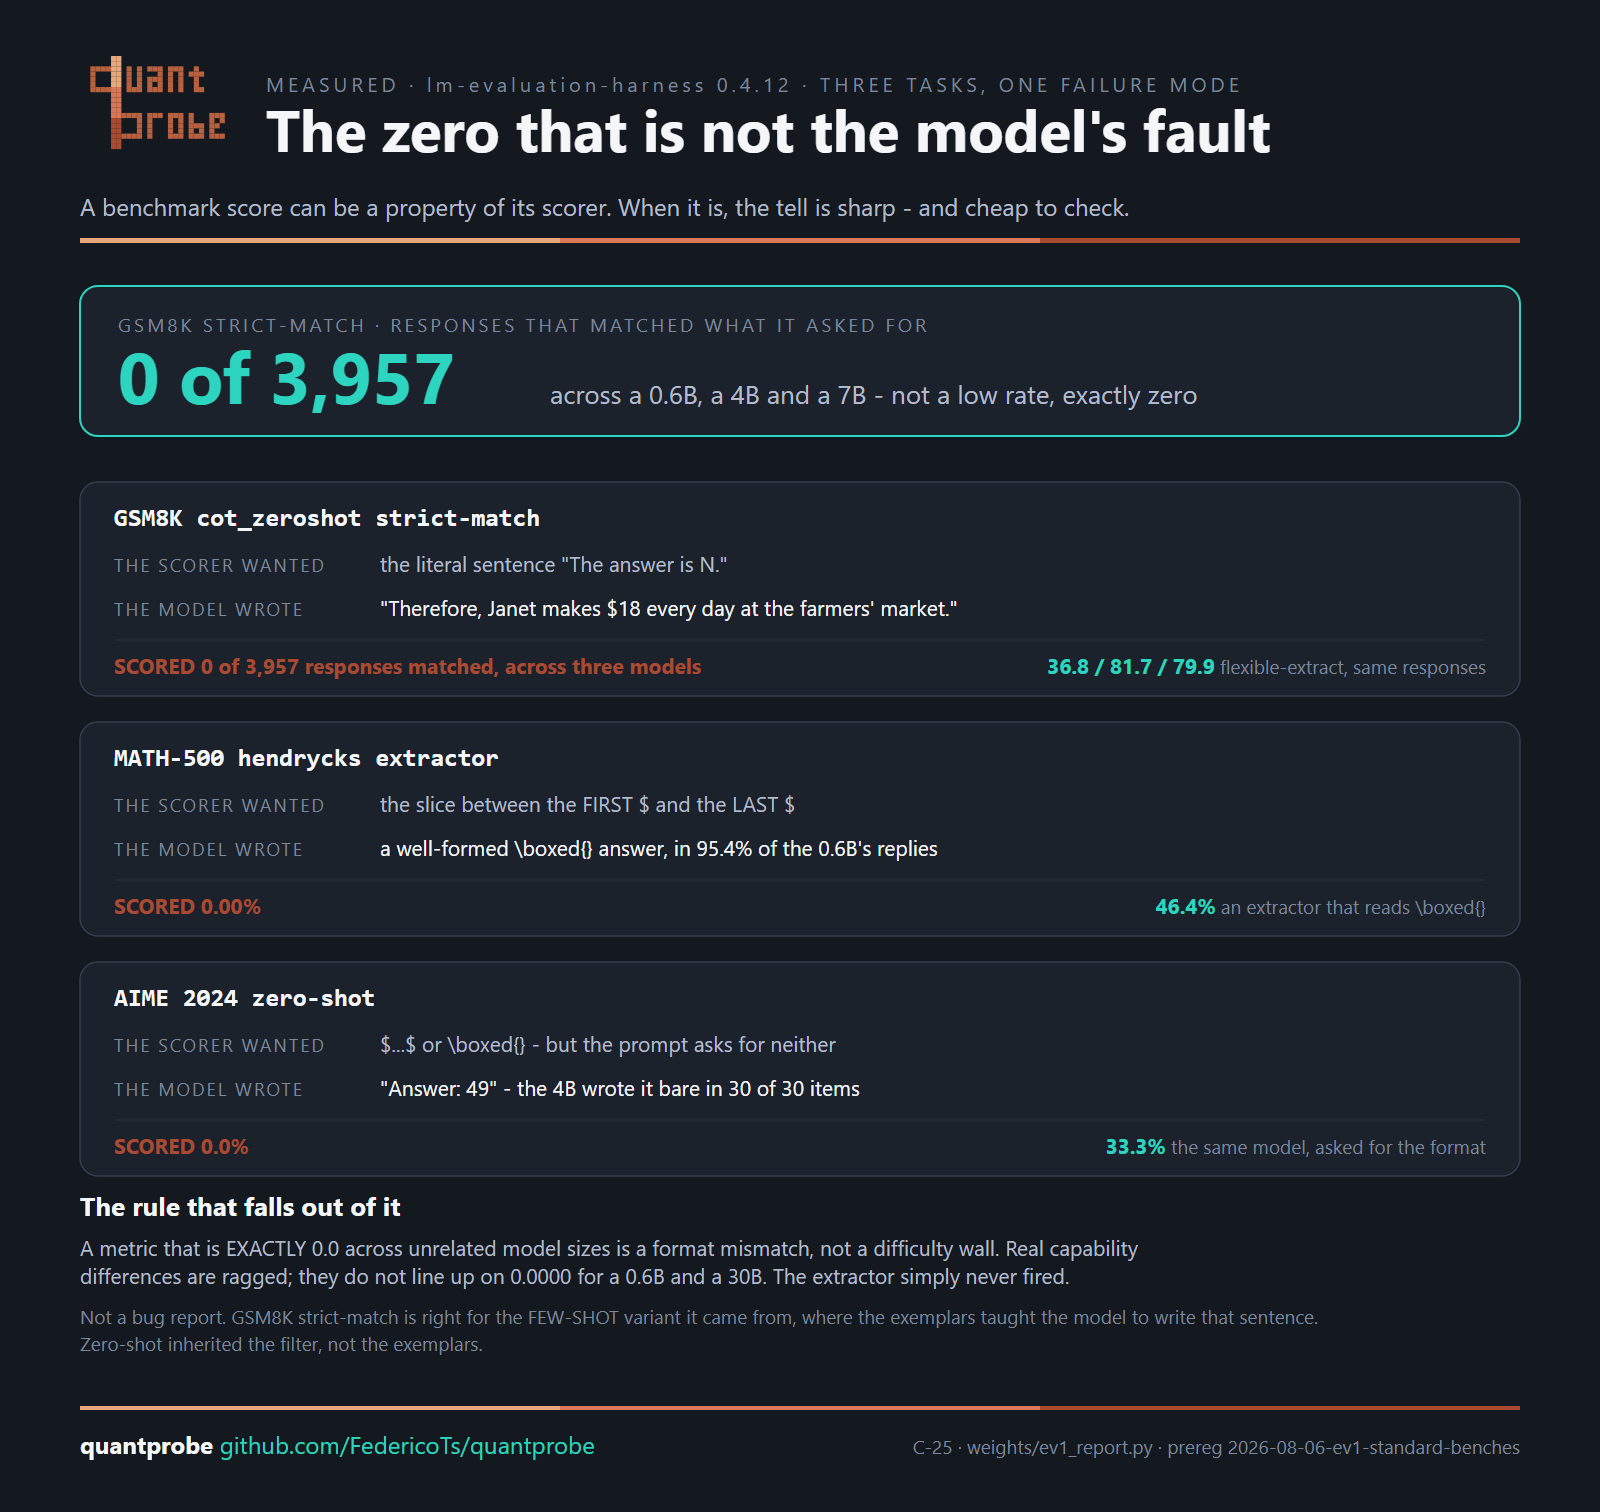
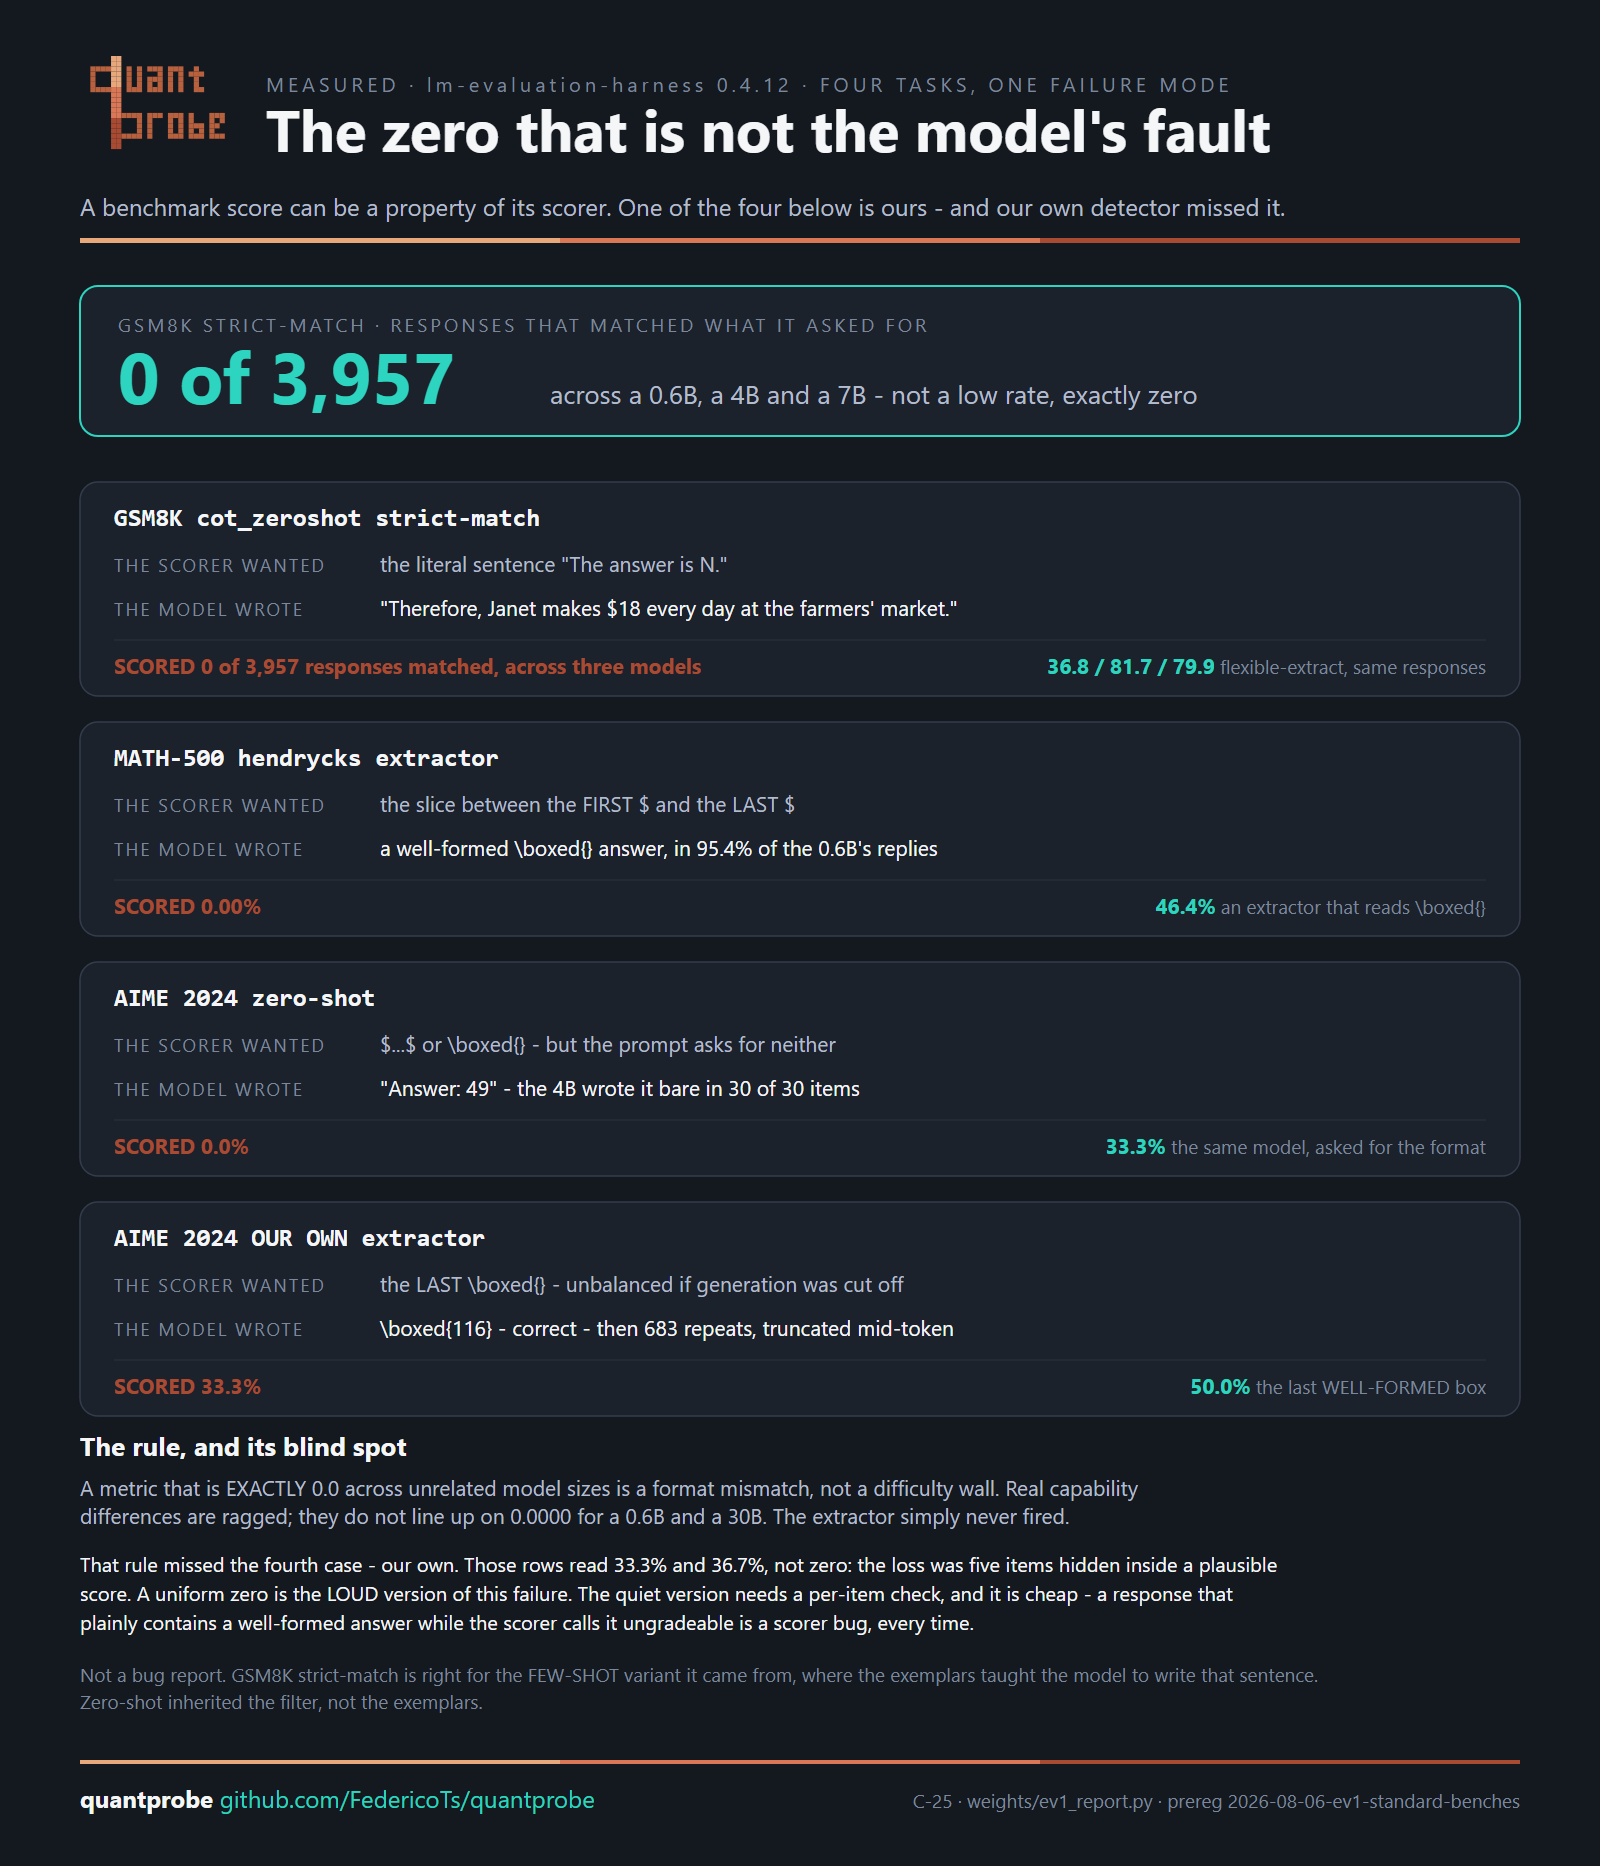
The ladder was not a size ladder, and the chart said it was
Federico pushed back that it sounds impossible for a 30B to sit below a 4B. He was right,
and the fault was the chart's framing rather than the scoring.

Two things were wrong.

FIRST, there is no gap to explain. MATH-500 reads 77.6% for the 4B and 77.2% for the 30B
with a stderr of +-1.87 and +-1.88 points. A 0.4-point difference on that spread is a dead
heat. The old panel printed "4.0x the bytes for -0.4 points", which reads as the big model
LOSING; it is not losing, and the chart now says dead heat and prints the stderr beside it.

SECOND, and worse, the four rows were labelled 0.6B / 4B / 7B / 30B under the title "Where
size stops buying accuracy" with a subtitle claiming the only thing that changes is the
model. They are not a size series:

  0.6B   Qwen3         Q8_0      8-bit
  4B     Qwen3.5       Q4_K_M    newest generation here
  7B     Qwen2.5       Q4_K_M    oldest generation here
  30B    Qwen3-Coder   Q2_K_L    a CODE specialist, sub-4-bit

Three model generations, three quantization tiers, and one domain specialist. The 30B is
handicapped twice on a maths benchmark - wrong specialism, and a sub-4-bit tier that our
OWN C-05 and L-15 place in a measurably degraded regime. Presenting that as evidence about
size is precisely the overclaim this project exists to refuse, and it was ours.

Retitled to "What 12 GB actually buys you". Every bar now carries its family and quant tier
[…]

diff --git a/weights/make_capability_ladder.py b/weights/make_capability_ladder.py
@@ -1,8 +1,19 @@
-"""The capability ladder - where model size stops buying accuracy on one 12 GB card.
+"""What 12 GB actually buys you - four runnable models, five standard benchmarks, one card.
 
-Four models, one machine, five standard benchmarks, full sets, temp 0 (EV-1, prereg
-2026-08-06). The headline is a tie nobody expects: a 2.83 GB 4B matches an 11.33 GB 30B on
-MATH-500, and beats a 4.68 GB 7B on every benchmark measured.
+EV-1, prereg 2026-08-06: one machine, full sets, temp 0.
+
+NOT A SCALING STUDY, and the first version of this chart wrongly implied it was. It was titled
+"Where size stops buying accuracy" over rows labelled 0.6B/4B/7B/30B, which reads as a
+controlled test of size. These four differ in generation (Qwen2.5 / Qwen3 / Qwen3.5), in
+quantization tier (Q8_0 / Q4_K_M / Q2_K_L) and in specialisation - the 30B is a CODE model
+being asked to do competition maths, at a sub-4-bit tier our own C-05 and L-15 place in a
+measurably degraded regime. It is handicapped twice over, and reporting "the 4B ties the 30B"
+as a claim about SIZE would be an overclaim of exactly the kind this project refuses.
+
+What the rows do support is narrower and more useful: on one 12 GB card, the newest small
+generalist at a sane quant matches the largest specialist you can fit, and beats a
+previous-generation 7B on every benchmark measured. That is a placement result - which is the
+question the tool actually answers.
 
 Cite-or-refuse. Every number renders from weights/data/ev1/**/results_*.json via ev1_report,
 which REFUSES to hand over a metric that is exactly 0.0 across three or more models unless the
@@ -21,7 +32,7 @@ import ev1_report as R                                       # noqa: E402
 from gridbench import MODELS                                 # noqa: E402
 
 W = 1600
-X0, XW = 486, 830                    # bar origin, full-scale width (100%)
+X0, XW = 620, 700                    # bar origin, full-scale width (100%)
 ROWH, GROUP_GAP = 38, 46
 
 # Display order and the plain-English name. The suite is what people actually quote.
@@ -35,6 +46,28 @@ BENCHES = [
 ]
 ORDER = ["0.6B", "4B", "7B", "30B"]
 HERO = "4B"
+
+# THE THING THE FIRST VERSION OF THIS CHART GOT WRONG. It was titled "Where size stops buying
+# accuracy" over four rows labelled 0.6B/4B/7B/30B, which reads as a controlled scaling study.
+# It is not one. These are four files you would actually run on a 12 GB card, and they differ
+# in generation, quantization tier and specialisation as much as in size:
+#
+#   0.6B  Qwen3         Q8_0      8-bit, a generalist
+#   4B    Qwen3.5       Q4_K_M    NEWEST generation here
+#   7B    Qwen2.5       Q4_K_M    OLDEST generation here
+#   30B   Qwen3-Coder   Q2_K_L    a CODE specialist, and sub-4-bit
+#
+# So the 30B is doubly handicapped on a maths benchmark - wrong specialism, and a quantization
+# tier our own C-05/L-15 put in a measurably degraded regime. Reporting "the 4B ties the 30B"
+# as a statement about SIZE would be an overclaim of exactly the kind this project exists to
+# refuse. What the rows honestly support is narrower and more useful: on one 12 GB card, the
+# newest small generalist at a sane quant matches what you can fit of a much larger specialist.
+VARIANT = {
+    "0.6B": ("Qwen3", "Q8_0", "generalist"),
+    "4B":   ("Qwen3.5", "Q4_K_M", "newest generation here"),
+    "7B":   ("Qwen2.5", "Q4_K_M", "oldest generation here"),
+    "30B":  ("Qwen3-Coder", "Q2_K_L", "code specialist, sub-4-bit"),
+}
 
 
 def sizes():
@@ -56,38 +89,44 @@ def main():
         scored[(model, task)] = value * 100
 
     live = [b for b in BENCHES if any((m, b[0]) in scored for m in ORDER)]
-    H = B.HEADER_H + sum(ROWH * len(ORDER) + GROUP_GAP + 34 for _ in live) + B.FOOTER_H + 400
+    H = B.HEADER_H + sum(ROWH * len(ORDER) + GROUP_GAP + 34 for _ in live) + B.FOOTER_H + 540
 
     m4 = scored.get((HERO, "math500_boxed"))
     m30 = scored.get(("30B", "math500_boxed"))
 
     s = [B.svg_open(W, H),
          B.header(W, "MEASURED · RTX 3060 12GB · lm-eval 0.4.12 · FULL SETS · TEMP 0",
-                  "Where size stops buying accuracy",
-                  "Four models on one card. Same harness, same prompts, same day - the only "
-                  "thing that changes is the model.")]
+                  "What 12 GB actually buys you",
+                  "Four models you could really run on one card. NOT a scaling study - they "
+                  "differ in generation and quantization as much as in size.")]
 
     y = B.HEADER_H + 24
 
-    # The hero comparison, stated once, in numbers big enough to read in a timeline.
+    # The hero, stated as what it is: a dead heat between two very different files. The earlier
+    # version framed this as size-versus-accuracy and printed a "-0.4 points" delta, which reads
+    # as the big model losing. It is not losing; 0.4pp against a +-1.9pp stderr is no difference
+    # at all, and the two files differ in generation, specialism and quant tier as well as size.
     if m4 is not None and m30 is not None:
-        s.append(B.panel(80, y, W - 160, 152, stroke=B.TEAL, sw=2))
-        s.append(f'<text x="118" y="{y+50}" fill="{B.MUT}" font-size="19" '
-                 f'letter-spacing="3">MATH-500, THE TIE</text>')
-        s.append(f'<text x="118" y="{y+118}" fill="{B.TEAL}" font-size="72" '
+        s.append(B.panel(80, y, W - 160, 164, stroke=B.TEAL, sw=2))
+        s.append(f'<text x="118" y="{y+46}" fill="{B.MUT}" font-size="19" '
+                 f'letter-spacing="3">MATH-500 - A DEAD HEAT, NOT A GAP</text>')
+        s.append(f'<text x="118" y="{y+112}" fill="{B.TEAL}" font-size="66" '
                  f'font-weight="bold">{m4:.1f}%</text>')
-        s.append(f'<text x="330" y="{y+118}" fill="{B.SUB}" font-size="26">'
-                 f'4B · {gb.get("4B", 0):.2f} GB</text>')
-        s.append(f'<text x="700" y="{y+118}" fill="{B.INK}" font-size="72" '
+        s.append(f'<text x="310" y="{y+112}" fill="{B.SUB}" font-size="23">'
+                 f'Qwen3.5-4B Q4_K_M</text>')
+        s.append(f'<text x="660" y="{y+112}" fill="{B.INK}" font-size="66" '
                  f'font-weight="bold">{m30:.1f}%</text>')
-        s.append(f'<text x="912" y="{y+118}" fill="{B.SUB}" font-size="26">'
-                 f'30B · {gb.get("30B", 0):.2f} GB</text>')
-        s.append(f'<text x="{W-118}" y="{y+82}" text-anchor="end" fill="{B.INK}" '
-                 f'font-size="30" font-weight="bold">'
-                 f'{gb.get("30B", 1) / gb.get("4B", 1):.1f}x the bytes</text>')
+        s.append(f'<text x="852" y="{y+112}" fill="{B.SUB}" font-size="23">'
+                 f'Qwen3-Coder-30B Q2_K_L</text>')
+        s.append(f'<text x="{W-118}" y="{y+86}" text-anchor="end" fill="{B.INK}" '
+                 f'font-size="27" font-weight="bold">'
+                 f'{abs(m30 - m4):.1f}pp apart</text>')
         s.append(f'<text x="{W-118}" y="{y+120}" text-anchor="end" fill="{B.MUT}" '
-                 f'font-size="24">for {m30 - m4:+.1f} points</text>')
-        y += 200
+                 f'font-size="22">on a stderr of +-1.9pp each</text>')
+        s.append(f'<text x="118" y="{y+146}" fill="{B.MUT}" font-size="18">'
+                 f'Different generation, different quantization tier, and one of them is a code '
+                 f'model doing maths. Read it as a placement result, not a scaling law.</text>')
+        y += 212
 
     for task, label, blurb in live:
         s.append(f'<text x="80" y="{y+20}" fill="{B.INK}" font-size="26" '
@@ -100,11 +139,15 @@ def main():
             v = scored.get((model, task))
             hero = model == HERO
             col = B.TEAL if hero else (B.VRAM if model == "30B" else B.SUB)
-            s.append(f'<text x="{X0-150}" y="{y+26}" fill="{B.INK if hero else B.SUB}" '
-                     f'font-size="21" font-weight="{"bold" if hero else "normal"}" '
-                     f'font-family="Consolas, Menlo, monospace">{model}</text>')
+            fam, quant, _ = VARIANT[model]
+            # The size label alone is what made the first version read as a scaling study. The
+            # family and quant tier travel with every single bar now, so no row can be quoted
+            # out of the chart as "the 30B" when it is a sub-4-bit code model.
+            s.append(f'<text x="{X0-330}" y="{y+26}" fill="{B.INK if hero else B.SUB}" '
+                     f'font-size="20" font-weight="{"bold" if hero else "normal"}" '
+                     f'font-family="Consolas, Menlo, monospace">{fam}-{model}</text>')
             s.append(f'<text x="{X0-22}" y="{y+26}" text-anchor="end" fill="{B.MUT}" '
-                     f'font-size="18">{gb.get(model, 0):.2f} GB</text>')
+                     f'font-size="17">{quant} · {gb.get(model, 0):.2f} GB</text>')
             s.append(f'<line x1="{X0}" y1="{y+19}" x2="{X0+XW}" y2="{y+19}" '
                      f'stroke="{B.GRID}" stroke-width="1"/>')
             if v is None:
@@ -136,8 +179,14 @@ def main():
          "on AIME."),
         ("NOT STRICTLY COMPARABLE ON AIME: the 0.6B, 4B and 7B rows ran a 7,168-token "
          "generation budget; the 30B row ran 8,192 after the slot plan changed to clear a "
-         "deadlock. The larger model had 14% more room to think, so the gap it shows is an "
+         "deadlock. The larger model had 14% more room to think, so any gap it shows is an "
          "upper bound on its advantage, not a measurement of it."),
+        ("AND NOT A SCALING STUDY: three model generations (Qwen2.5 / Qwen3 / Qwen3.5), three "
+         "quantization tiers (Q8_0 / Q4_K_M / Q2_K_L) and one code specialist sit on these "
+         "four rows. The 30B is handicapped twice on maths - wrong specialism, and a sub-4-bit "
+         "tier our own C-05 and L-15 put in a measurably degraded regime. These are the files "
+         "you can actually fit on 12 GB, which is the useful question; they are not a "
+         "controlled test of size."),
     ]
     for n in notes:
         s.append(B.paragraph(80, y + 6, n, 18, B.MUT, W - 160))

diff --git a/weights/make_scorer_artifact.py b/weights/make_scorer_artifact.py
@@ -47,6 +47,12 @@ CASES = [
      "0.0%",
      "33.3%",
      "the same model, asked for the format"),
+    ("AIME 2024  OUR OWN extractor",
+     "the LAST \\boxed{} - unbalanced if generation was cut off",
+     "\\boxed{116} - correct - then 683 repeats, truncated mid-token",
+     "33.3%",
+     "50.0%",
+     "the last WELL-FORMED box"),
 ]
 
 
@@ -57,16 +63,16 @@ def main():
     got = {(m, t): v for (m, t), d in rows.items() for k, v in d.items()
            if k == R.REPORTED.get(t, ("", ""))[0]}
     assert abs(got[("0.6B", "math500_boxed")] * 100 - 46.4) < 0.05, "MATH-500 0.6B moved"
-    assert abs(got[("4B", "aime24_boxed")] * 100 - 33.3) < 0.05, "AIME24 4B moved"
+    assert abs(got[("4B", "aime24_boxed")] * 100 - 50.0) < 0.05, "AIME24 4B moved"
 
     CH, GAP = 214, 26
-    H = B.HEADER_H + 196 + len(CASES) * (CH + GAP) + 186 + B.FOOTER_H
+    H = B.HEADER_H + 196 + len(CASES) * (CH + GAP) + 300 + B.FOOTER_H
 
     s = [B.svg_open(W, H),
-         B.header(W, "MEASURED · lm-evaluation-harness 0.4.12 · THREE TASKS, ONE FAILURE MODE",
+         B.header(W, "MEASURED · lm-evaluation-harness 0.4.12 · FOUR TASKS, ONE FAILURE MODE",
                   "The zero that is not the model's fault",
-                  "A benchmark score can be a property of its scorer. When it is, the tell is "
-                  "sharp - and cheap to check.")]
+                  "A benchmark score can be a property of its scorer. One of the four below is "
+                  "ours - and our own detector missed it.")]
 
     y = B.HEADER_H + 16
     s.append(B.panel(PAD, y, W - 2 * PAD, 150, stroke=B.TEAL, sw=2))
@@ -106,7 +112,7 @@ def main():
 
     y += 14
     s.append(f'<text x="{PAD}" y="{y}" fill="{B.INK}" font-size="26" font-weight="bold">'
-             f'The rule that falls out of it</text>')
+             f'The rule, and its blind spot</text>')
     for i, line in enumerate([
             "A metric that is EXACTLY 0.0 across unrelated model sizes is a format mismatch, "
             "not a difficulty wall. Real capability",
@@ -114,10 +120,21 @@ def main():
             "The extractor simply never fired."]):
         s.append(f'<text x="{PAD}" y="{y+40+i*28}" fill="{B.SUB}" font-size="21">'
                  f'{esc(line)}</text>')
+    # The fourth case is ours, and the rule above would have sailed straight past it. Saying so
+    # is the whole point: a detector built for the loud version of a failure is not a detector
+    # for the failure. Publishing the rule without its blind spot would be the same overclaim
+    # this chart is about.
+    s.append(B.paragraph(PAD, y + 116, esc(
+        "That rule missed the fourth case - our own. Those rows read 33.3% and 36.7%, not zero: "
+        "the loss was five items hidden inside a plausible score. A uniform zero is the LOUD "
+        "version of this failure. The quiet version needs a per-item check, and it is cheap - a "
+        "response that plainly contains a well-formed answer while the scorer calls it "
+        "ungradeable is a scorer bug, every time."), 20, B.INK, W - 2 * PAD))
     # Say this ON the chart, not only in the source. Without it the asset reads as a dunk on a
     # harness thousands of people rely on, and the actual mechanism - a filter that is correct
     # for the variant it came from - is the more useful and more interesting thing.
-    s.append(B.paragraph(PAD, y + 108, esc(
+    # Below the blind-spot block, which runs three lines at 29px leading from y+116.
+    s.append(B.paragraph(PAD, y + 226, esc(
         "Not a bug report. GSM8K strict-match is right for the FEW-SHOT variant it came from, "
         "where the exemplars taught the model to write that sentence. Zero-shot inherited the "
         "filter, not the exemplars."), 19, B.MUT, W - 2 * PAD))
